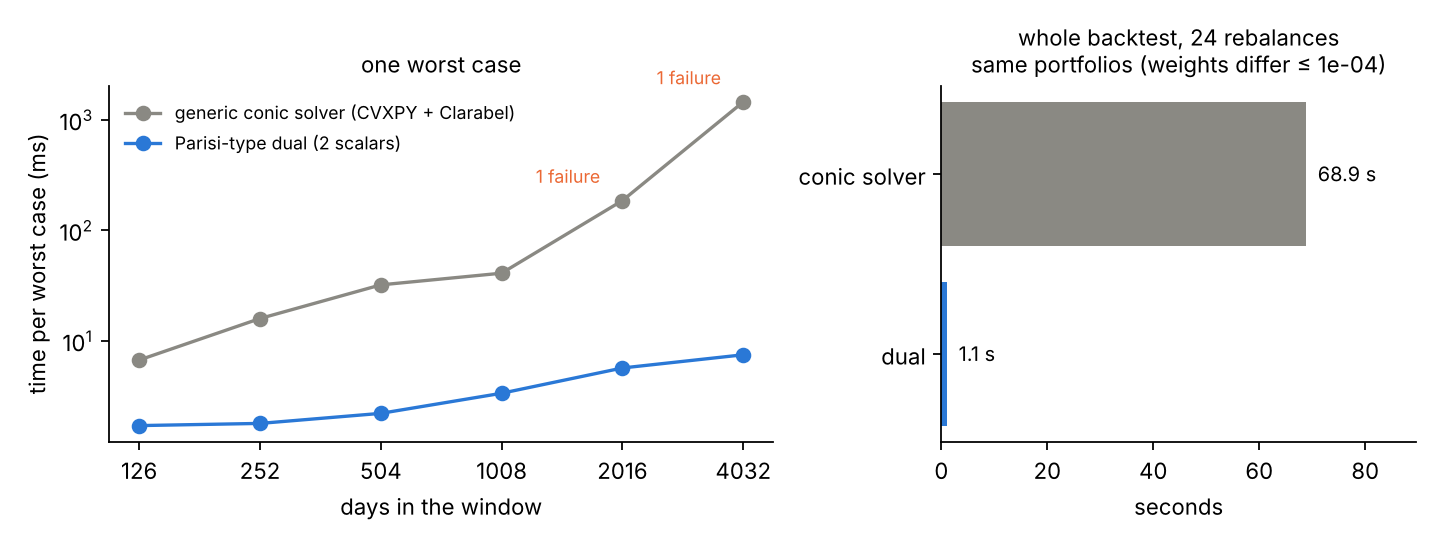
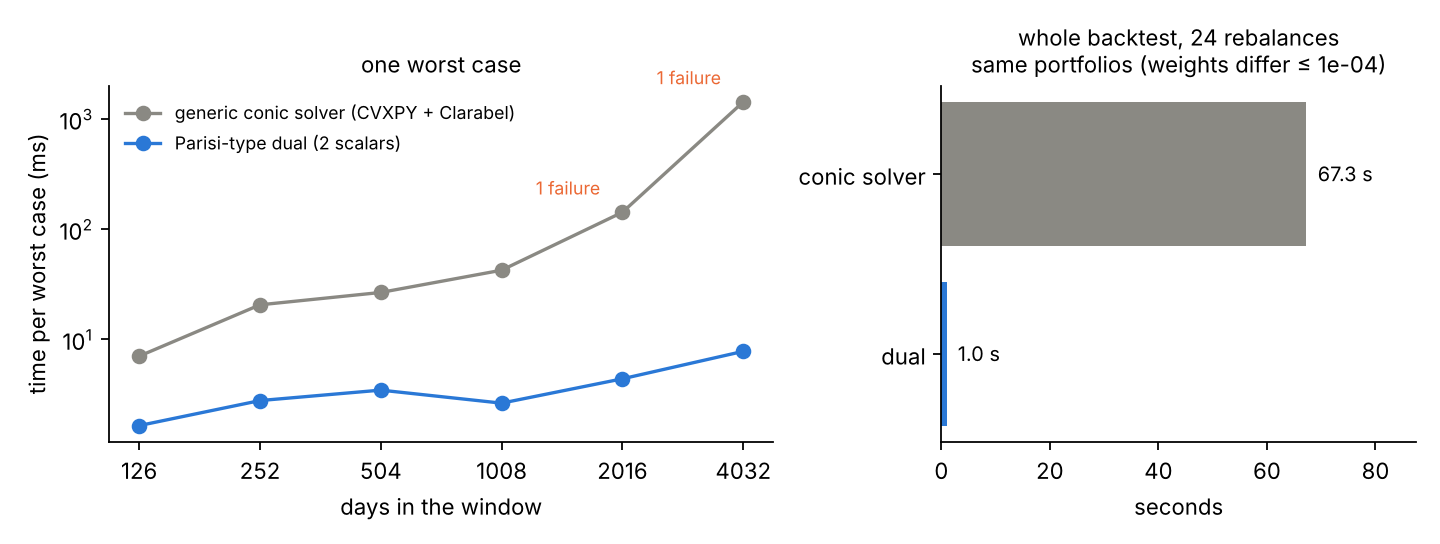
Section 5: case-study tab with the real-data backtest
The app now shows the backtest: three headline numbers (speed-up of
the dual, max drawdown, volatility), the speed figure, the results
table with crisis returns, the wealth/drawdown chart and a Q&A card,
all read from results/backtest/results.json, which the backtest
script now writes. Regenerated results (the speed-up is 60-70x
depending on the run; the README says so).

Claude-Session: https://claude.ai/code/session_012MtevckVGLvHyeKMcKLWLc

diff --git a/src/tapdual/app/robust.py b/src/tapdual/app/robust.py
@@ -7,10 +7,12 @@ Tab 2, nonlinear risk (mean–variance): the concave non-linearity turns the sup
 from __future__ import annotations
 
 import threading
+from pathlib import Path
 
 import numpy as np
 import pyqtgraph as pg
-from PySide6.QtCore import Qt, QTimer
+from PySide6.QtCore import QRect, QSize, Qt, QTimer
+from PySide6.QtGui import QPainter, QPixmap
 from PySide6.QtWidgets import QGridLayout, QHBoxLayout, QPushButton, QVBoxLayout, QWidget
 
 from .. import Quadrature, mean_variance_model, solve_dual, solve_primal
@@ -315,6 +317,125 @@ class NonlinearPage(QWidget):
         self.status.setText(f"sup over ν (solved directly) = inf over (q, m), up to {gap:.0e}.")
 
 
+# --------------------------------------------------------------------------- tab 4: case study on real data
+RESULTS = Path(__file__).resolve().parents[3] / "results" / "backtest"
+
+
+class Picture(QWidget):
+    """An image that scales to the available width and keeps its aspect ratio."""
+
+    def __init__(self, path):
+        super().__init__()
+        self.pm = QPixmap(str(path))
+        sp = self.sizePolicy(); sp.setHeightForWidth(True); self.setSizePolicy(sp)
+
+    def hasHeightForWidth(self):
+        return True
+
+    def heightForWidth(self, w):
+        return int(w * self.pm.height() / max(self.pm.width(), 1))
+
+    def sizeHint(self):
+        return QSize(600, self.heightForWidth(600))
+
+    def paintEvent(self, e):
+        p = QPainter(self); p.setRenderHint(QPainter.SmoothPixmapTransform)
+        w = self.width(); h = self.heightForWidth(w)
+        p.drawPixmap(QRect(0, 0, w, h), self.pm); p.end()
+
+
+def _big(value, caption) -> QWidget:
+    w = QWidget(); l = QVBoxLayout(w); l.setContentsMargins(0, 0, 0, 0); l.setSpacing(0)
+    v = label(value, "value"); v.setStyleSheet(f"font-size: 30px; color: {theme.ACCENT};")
+    l.addWidget(v); l.addWidget(label(caption, "small"))
+    return w
+
+
+class CaseStudyPage(QWidget):
+    COLUMNS = (("annual return", "return / year", True), ("annual volatility", "volatility", True),
+               ("Sharpe (rf = 0)", "Sharpe", False), ("max drawdown", "max drawdown", True),
+               ("turnover / rebalance", "turnover", False))
+
+    def __init__(self):
+        super().__init__()
+        lay = QVBoxLayout(self); lay.setContentsMargins(0, 0, 0, 0); lay.setSpacing(12)
+        path = RESULTS / "results.json"
+        if not path.exists():
+            lay.addWidget(label("No results yet. Run <b>python scripts/backtest.py</b> in the project folder "
+                                "(about 8 minutes) and reopen the app.", "body"))
+            return
+        import json
+        res = json.loads(path.read_text())
+        M, S = res["metrics"], res["speed"]
+        names = list(M)
+        robust, mark, eq = names[3], names[1], names[0]
+        speedup = S["backtest_conic_s"] / S["backtest_dual_s"]
+
+        lay.addWidget(label(
+            f"Everything so far used one sample of returns. Here the robust portfolio meets real data: daily prices "
+            f"of {len(res['universe'])} US stocks, {res['period'][0][:4]}–{res['period'][1][:4]} out of sample, "
+            f"through the dot-com crash and 2008. Every month each strategy is re-estimated on the last two years, "
+            f"long-only, paying 0.1% on what it trades. All settings were fixed before looking at the results "
+            f"(γ = {res['gamma']}, ρ = {res['rho']}).", "body"))
+
+        head = Card("In three numbers")
+        row = QWidget(); rl = QHBoxLayout(row); rl.setContentsMargins(0, 4, 0, 4); rl.setSpacing(28)
+        rl.addWidget(_big(f"{speedup:.0f}×", f"faster with the Parisi-type dual than with a generic solver,<br>"
+                                             f"same portfolios (weights differ ≤ {S['max_weight_difference']:.0e})"))
+        rl.addWidget(_big(f"{100 * M[robust]['max drawdown']:.0f}%",
+                          f"worst fall from a peak, against {100 * M[mark]['max drawdown']:.0f}% (Markowitz)<br>"
+                          f"and {100 * M[eq]['max drawdown']:.0f}% (equal weight)"))
+        rl.addWidget(_big(f"{100 * M[robust]['annual volatility']:.1f}%",
+                          f"volatility, against {100 * M[mark]['annual volatility']:.1f}% (Markowitz)<br>"
+                          f"and {100 * M[eq]['annual volatility']:.1f}% (equal weight)"))
+        rl.addStretch(1)
+        head.add(row)
+
+        speed = Card("Why the dual matters in practice: speed",
+                     "Left: time for one worst case as the data window grows. Right: the same robust backtest "
+                     f"({S['rebalances']} monthly rebalances) computed twice: "
+                     f"{S['backtest_dual_s']:.1f} s with the dual, {S['backtest_conic_s']:.0f} s with CVXPY + Clarabel.")
+        speed.add(Picture(RESULTS / "speed.png"))
+
+        table = Card("Results, 1992–2018")
+        grid = QWidget(); g = QGridLayout(grid); g.setContentsMargins(0, 0, 0, 0); g.setHorizontalSpacing(18)
+        g.addWidget(label("<b>strategy</b>", "small"), 0, 0)
+        for c, (_, title, _) in enumerate(self.COLUMNS, 1):
+            g.addWidget(label(f"<b>{title}</b>", "small", wrap=False), 0, c, Qt.AlignRight)
+        for r, name in enumerate(names, 1):
+            bold = name == robust
+            short = name.replace(" (KSS23 dual)", "").replace(" (EVaR)", " (EVaR)")
+            g.addWidget(label(f"<b>{short}</b>" if bold else short, "body", wrap=False), r, 0)
+            for c, (key, _, pct) in enumerate(self.COLUMNS, 1):
+                v = M[name][key]
+                txt = f"{100 * v:.1f}%" if pct else f"{v:.2f}"
+                g.addWidget(label(f"<b>{txt}</b>" if bold else txt, "body", wrap=False), r, c, Qt.AlignRight)
+        g.setColumnStretch(0, 1)
+        table.add(grid)
+        for crisis, vals in res["crises"].items():
+            table.add(label(f"<b>{crisis}:</b> " + ", ".join(f"{k.split(' (')[0]} {100 * v:+.0f}%" for k, v in vals.items()),
+                            "small"))
+
+        wealth = Card("Wealth and drawdown", "Log scale. The robust portfolios fall less in both crashes.")
+        wealth.add(Picture(RESULTS / "equity.png"))
+
+        practice = Practice("What would I tell a portfolio manager?", rows=[
+            ("Result", f"The robust portfolio gives up {100 * (M[eq]['annual return'] - M[robust]['annual return']):.1f}–"
+                       f"{100 * (M[mark]['annual return'] - M[robust]['annual return']):.1f} points of return a year "
+                       "for about a fifth less volatility, a much smaller worst fall and half the trading."),
+            ("Bonus", "It does not need a carefully tuned risk aversion: its risk barely moves when γ changes, "
+                      "while Markowitz swings from 29% to 17% volatility."),
+            ("Where the maths helps", "The worst case is an inf over two numbers (q, m) instead of a sup over "
+                                      "504 day-weights: exact, and fast enough to run inside the optimiser."),
+            ("Honest limits", "Here the mean–variance version behaves like the simpler robust mean (EVaR); its "
+                              "edge is computational. Survivorship bias (well-known stocks), zero risk-free rate, "
+                              "one dataset."),
+        ])
+        lay.addWidget(head)
+        lay.addWidget(speed)
+        lay.addWidget(_two_columns(_column(wealth), _column(table, practice)))
+
+
 # --------------------------------------------------------------------------- section
 class RobustSection(Section):
     def __init__(self):
@@ -328,10 +449,12 @@ class RobustSection(Section):
                    "log 2 runs out and the measure freezes (section 3).",
                    "Read ν as an adversary who may reweight your data within a budget H(ν | μ) ≤ ρ.",
                    "How bad can things get if the data are slightly wrong, and what plays the role of temperature?"))
-        self.seg = Segmented(["Worst case in a KL ball", "Nonlinear risk: the sup becomes an inf", "Dictionary"])
+        self.seg = Segmented(["Worst case in a KL ball", "Nonlinear risk: the sup becomes an inf", "Dictionary",
+                              "Case study: real data"])
         self.lay.addWidget(self.seg)
         self.stack = FitStack()
         self.stack.addWidget(LinearPage()); self.stack.addWidget(NonlinearPage()); self.stack.addWidget(self._dictionary())
+        self.stack.addWidget(CaseStudyPage())
         self.stack.setCurrentIndex(0)
         self.lay.addWidget(self.stack)
         self.seg.changed.connect(self.stack.setCurrentIndex)

diff --git a/scripts/backtest.py b/scripts/backtest.py
@@ -21,6 +21,7 @@ from tapdual.backtest import FULL_HISTORY, Strategy, backtest, load_prices, simp
 from tapdual.dro import worst_case_mean_variance
 
 OUT = Path(__file__).resolve().parents[1] / "results" / "backtest"
+SPEED: dict = {}   # filled by speed_study, saved to results.json for the app
 GAMMA, RHO, TAU = 0.05, 0.05, 0.1
 
 MAIN = [
@@ -43,6 +44,11 @@ def table(results) -> str:
     for r in results:
         lines.append(f"| {r.strategy.name} | " + " | ".join(fmt(k, r.metrics[k]) for k in keys) + " |")
     return "\n".join(lines)
+
+
+def crisis_return(r, start, end) -> float:
+    s = (r.dates >= np.datetime64(start)) & (r.dates <= np.datetime64(end))
+    return float(np.prod(1 + r.returns[s] / 100) - 1)
 
 
 def crisis(results, dates, start, end) -> str:
@@ -88,6 +94,9 @@ def speed_study(dates, R, reps=5, seed=0, rebalances=24) -> str:
     t = time.time(); b = backtest(Strategy("conic", "robust_mv_conic", gamma=GAMMA, rho=RHO, tau=TAU), D, RR)
     e_conic = time.time() - t
     wdiff = float(np.abs(a.weights - b.weights).max())
+    SPEED.update(days=list(ns), dual_ms=[1e3 * x for x in t_dual], conic_ms=[1e3 * x for x in t_conic],
+                 conic_failures=fails, reps=reps, backtest_dual_s=e_dual, backtest_conic_s=e_conic,
+                 rebalances=rebalances, max_weight_difference=wdiff)
 
     fig, ax = plt.subplots(1, 2, figsize=(9, 3.4), gridspec_kw={"width_ratios": [1.4, 1]})
     ax[0].loglog(ns, 1e3 * np.array(t_conic), "o-", color="#8a8983", label="generic conic solver (CVXPY + Clarabel)")
@@ -189,6 +198,15 @@ def main():
                    "## Sensitivity to the risk aversion γ", table(sens_gamma), "![sensitivity](sensitivity.png)"]
     report += ["## Speed: the dual against a generic conic solver", speed_study(dates, R)]
     (OUT / "summary.md").write_text("\n\n".join(report) + "\n")
+    crises = {name: {r.strategy.name: crisis_return(r, a_, b_) for r in results}
+              for name, a_, b_ in (("Dot-com crash 2000-02", "2000-03-24", "2002-10-09"),
+                                   ("Financial crisis 2007-09", "2007-10-09", "2009-03-09"))}
+    import json
+    (OUT / "results.json").write_text(json.dumps({
+        "period": [first, last], "universe": tickers, "gamma": GAMMA, "rho": RHO, "tau": TAU,
+        "window": 504, "step": 21, "cost_bps": 10,
+        "metrics": {r.strategy.name: r.metrics for r in results}, "crises": crises, "speed": SPEED,
+    }, indent=2))
     print(f"written to {OUT}")
 
 

diff --git a/results/backtest/summary.md b/results/backtest/summary.md
@@ -50,14 +50,14 @@ Time per inner worst case (median of 5 random windows and portfolios), and the l
 
 | days | dual | conic solver | speed-up | conic failures | max difference |
 |---|---|---|---|---|---|
-| 126 | 1.7 ms | 6.7 ms | 4x | 0 of 5 | 2e-08 |
-| 252 | 1.8 ms | 15.9 ms | 9x | 0 of 5 | 4e-08 |
-| 504 | 2.2 ms | 32.0 ms | 15x | 0 of 5 | 1e-08 |
-| 1008 | 3.4 ms | 40.9 ms | 12x | 0 of 5 | 1e-08 |
-| 2016 | 5.7 ms | 185.4 ms | 33x | 1 of 5 | 1e-08 |
-| 4032 | 7.5 ms | 1445.8 ms | 194x | 1 of 5 | 1e-08 |
+| 126 | 1.7 ms | 7.1 ms | 4x | 0 of 5 | 2e-08 |
+| 252 | 2.8 ms | 20.6 ms | 7x | 0 of 5 | 4e-08 |
+| 504 | 3.5 ms | 26.7 ms | 8x | 0 of 5 | 1e-08 |
+| 1008 | 2.6 ms | 42.5 ms | 16x | 0 of 5 | 1e-08 |
+| 2016 | 4.4 ms | 142.5 ms | 32x | 1 of 5 | 1e-08 |
+| 4032 | 7.8 ms | 1427.0 ms | 183x | 1 of 5 | 1e-08 |
 
-Whole robust mean-variance backtest over the last 24 monthly rebalances, run twice: **1.1 s with the dual, 68.9 s with the conic solver** (60x), same portfolios (largest weight difference 1e-04).
+Whole robust mean-variance backtest over the last 24 monthly rebalances, run twice: **1.0 s with the dual, 67.3 s with the conic solver** (70x), same portfolios (largest weight difference 1e-04).
 
 ![speed](speed.png)
 

diff --git a/README.md b/README.md
@@ -20,9 +20,9 @@ A walk-forward backtest on real daily prices of 10 US stocks (1990–2018, inclu
 crash and 2008). Every month each strategy is re-estimated on the last two years of returns,
 long-only, with 10 bps transaction costs. All parameters were fixed before looking at results.
 
-**Headline: the Parisi-type dual makes the robust portfolio 60× faster to compute.** The same
-robust mean–variance backtest takes 1.1 s with the dual and 69 s with a generic conic solver
-(CVXPY + Clarabel), and returns the same portfolios (weights differ by at most 10⁻⁴). One worst case
+**Headline: the Parisi-type dual makes the robust portfolio 60–70× faster to compute.** The same
+robust mean–variance backtest takes about 1 s with the dual and about 67 s with a generic conic solver
+(CVXPY + Clarabel; timings vary a little between runs), and returns the same portfolios (weights differ by at most 10⁻⁴). One worst case
 costs a few milliseconds whatever the window length; the conic solver slows down from 7 ms to 1.4 s
 as the window grows to 16 years, and occasionally fails to converge.
 
